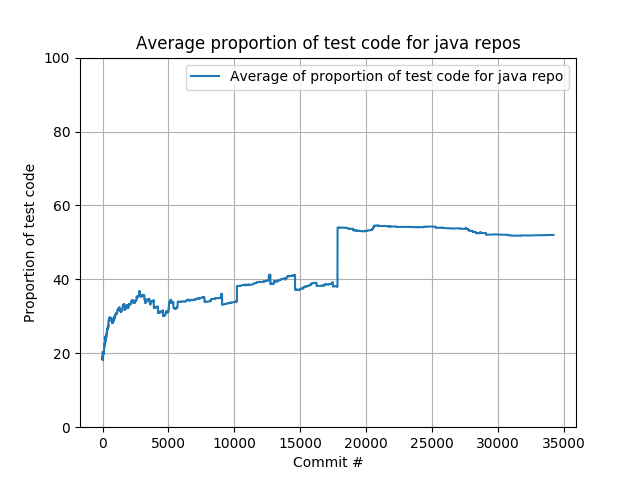
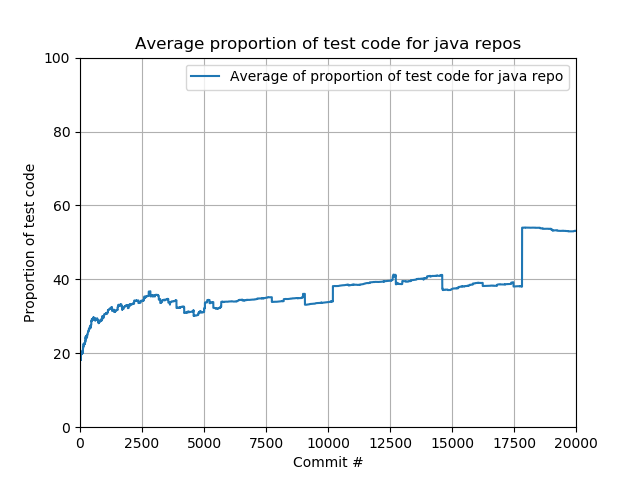
Limited average graph to first 20k commits

diff --git a/average_per_language.py b/average_per_language.py
@@ -66,7 +66,8 @@ def average_for_file_type(data,fileType):
     fig, ax = plt.subplots()
     ax.plot(x, y, label="Average of proportion of test code for {} repo".format(fileType))
     ax.legend()
-    
+
+    plt.xlim(0, 20000)   
     plt.ylim(0, 100)   
     ax.set(xlabel="Commit #", ylabel="Proportion of test code", title="Average proportion of test code for {} repos".format(fileType))
     ax.grid()
